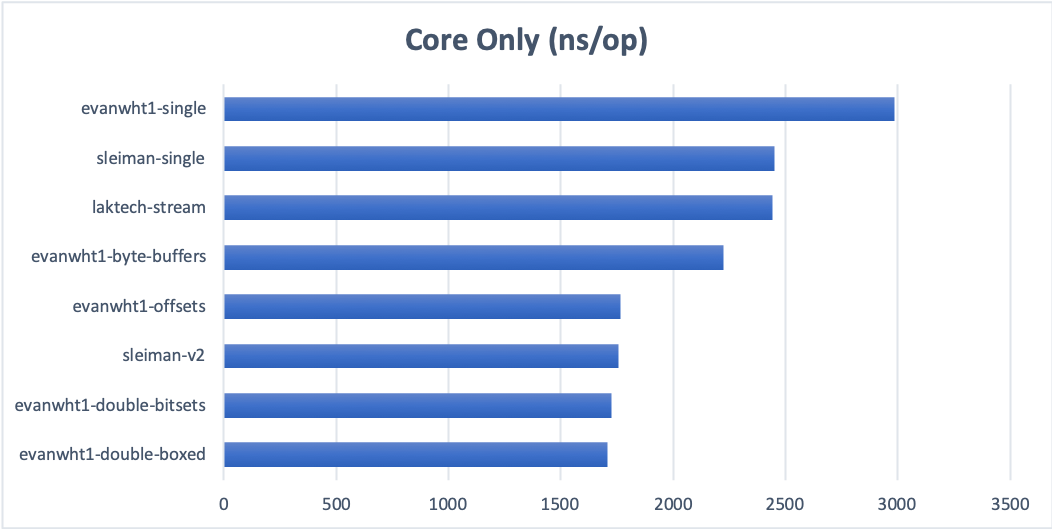
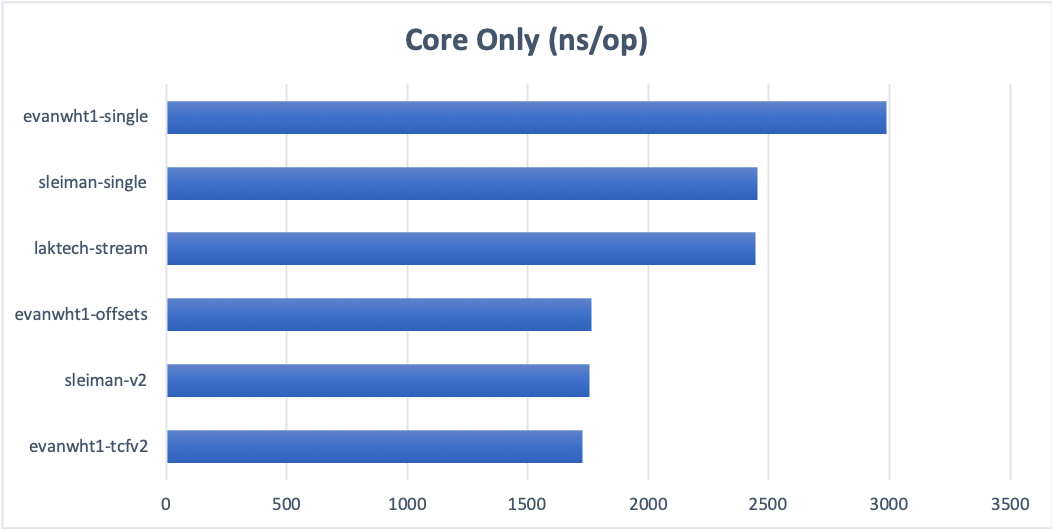
stream line information

diff --git a/README.md b/README.md
@@ -47,23 +47,16 @@ Names correspond to branches in repos for the most part. The actual mapping is a
 - laktech-stream
     - laktech:v2-lazy-segment-input-stream
     - wraps incoming string in a LazySegmentFactory that will read each segment out when called for
-- evanwht1-single
-    - evanwht1:evanwht1/single-scan
-    - rebase of evanwht1-double-bitsets onto sleiman-single-scan
-- evanwht1-byte-buffers
-    - evanwht1:evanwht1-byte-buffers
-    - Same as evanwht1-double-bitsets but uses a ByteBuffer instead of calling String.split() in TCModelDecoder
-- evanwht1-offsets
-    - evanwht1:fieldsWithOffsets
-    - Defines offsets with fields where possible and passes those offsets to the bitvector
-- evanwht1-double-bitsets
+- evanwht1-tvcf2
     - evanwht1:tcfv2-decode-with-bitvector
     - Bit vector maintains position while reading and replaces Set<Integer> in POJO's with BitSet to query for vendors.
     double is in reference to double scanning the incoming stream (String.split())
-- evanwht1-double-boxed
-    - evanwht1:bitvectorWithPosition
-    - Same as evanwht1-double-bitsets with but still uses Set<Integer>. double is in reference to double scanning the 
-    incoming stream (String.split()).
+- evanwht1-offsets
+    - evanwht1:fieldsWithOffsets
+    - Defines offsets with fields where possible and passes those offsets to the bitvector
+- evanwht1-single
+    - evanwht1:evanwht1/single-scan
+    - rebase of evanwht1-tcfv2 onto sleiman-single
 
 Decoding of the Core String Only  
 ![](resources/Core-Only.png)
